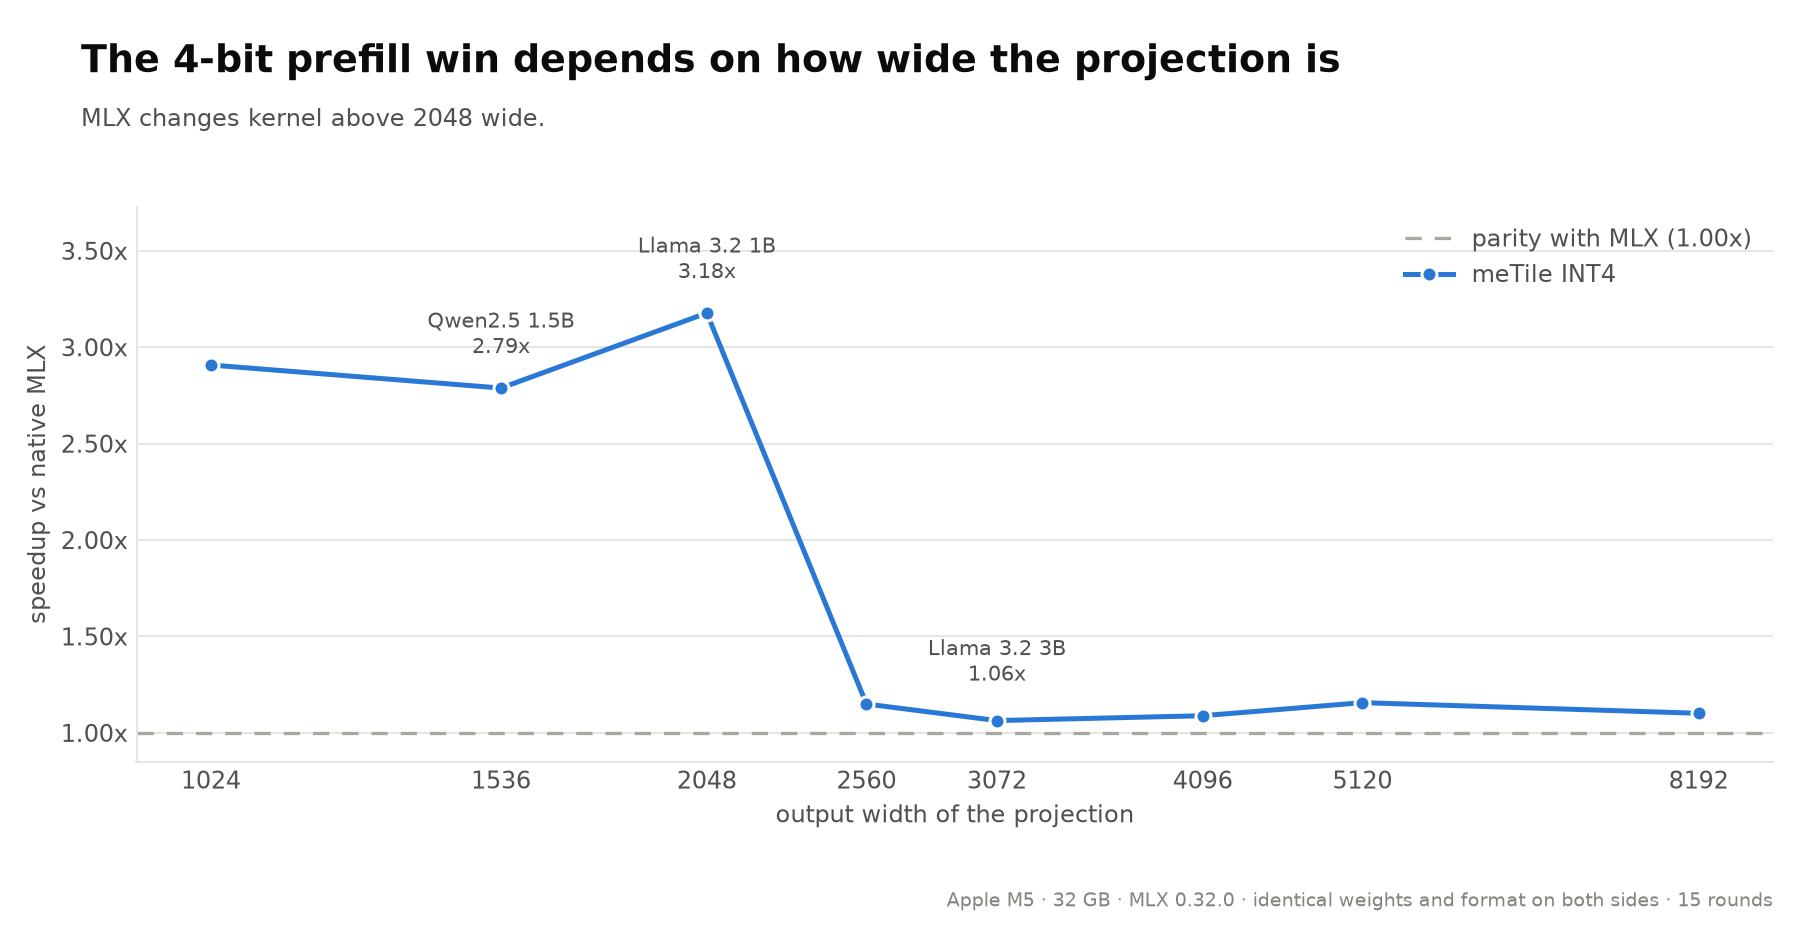
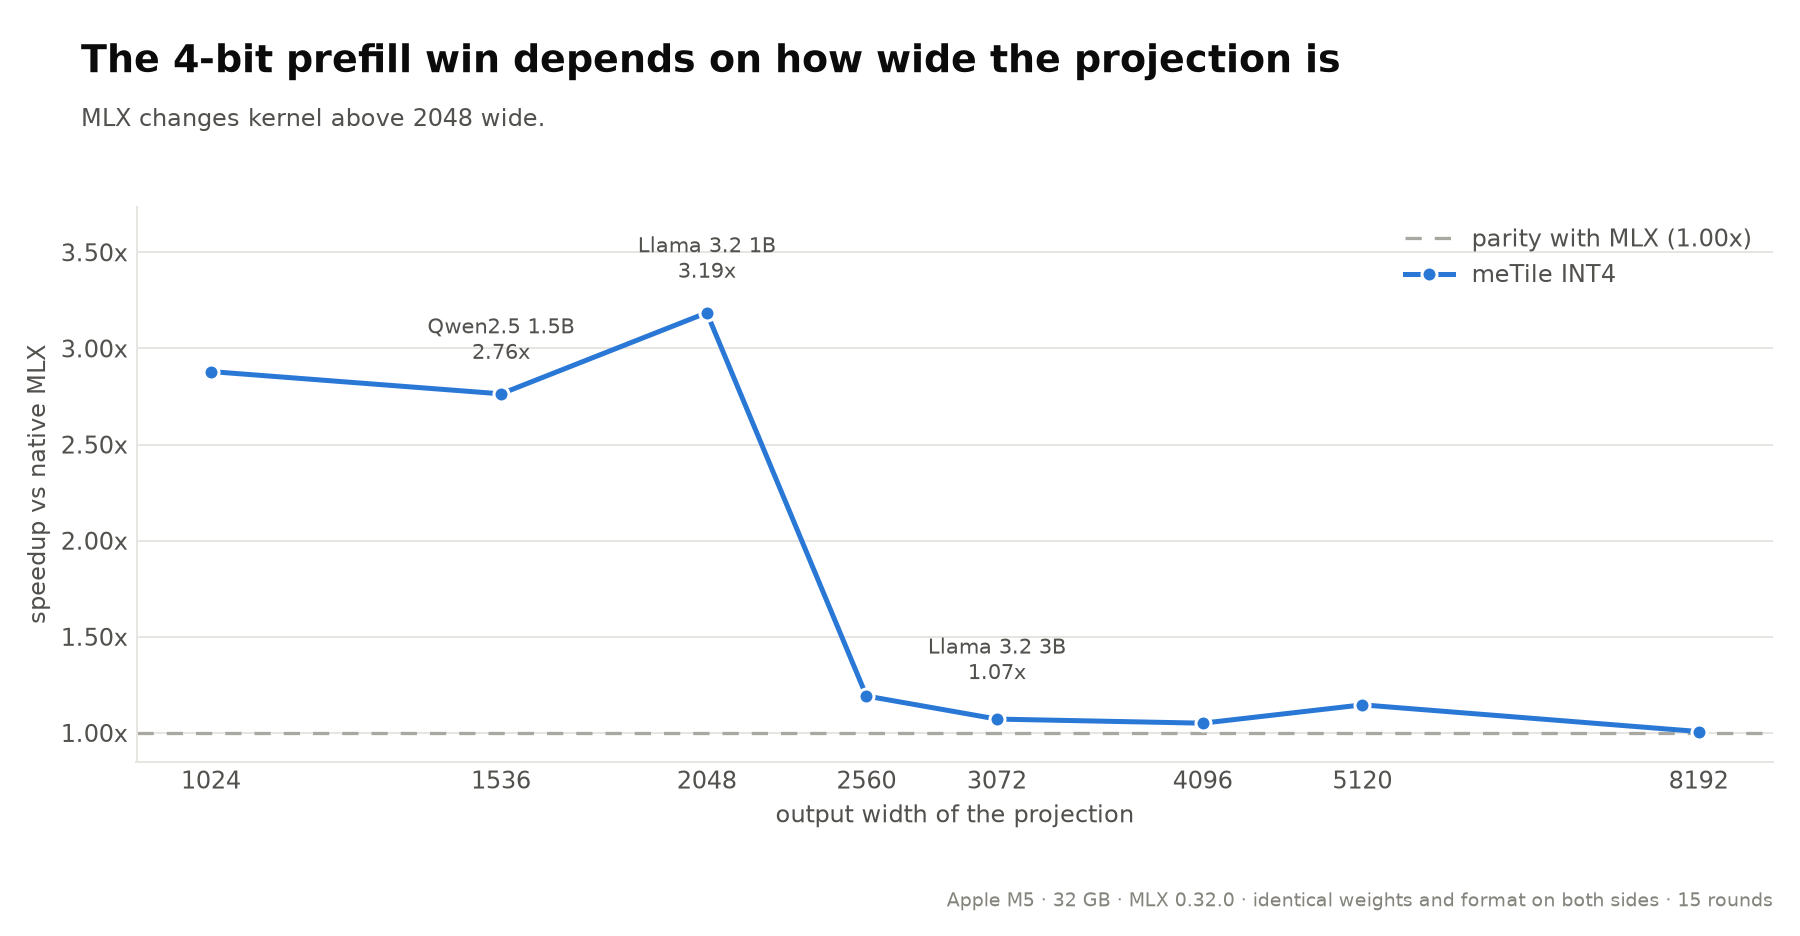
Measure meTile's quantized path instead of assuming it defers
The batch chart drew MLX INT4 and INT8 with no meTile counterpart, which reads as
missing data rather than as a result. The benchmark was recording None for those
points on the grounds that meTile has no multi-row quantized kernel, which was an
assumption rather than a measurement.

Run the quantized executor path and record it. It does track MLX, within 1.0% for
INT4 and 5.5% for INT8, so the label now says meTile defers to MLX rather than
leaving a gap.

Time the batch sweep interleaved as well. Measuring one side after the other put
INT8 at 76 GB/s against MLX's 116 at one row, which contradicted the batch-size
matrix; alternating the two removes it and the formats agree.

(cherry picked from commit 67d0ca936ceceb552c747ab73d09b2bccbeb4259)

diff --git a/benchmarks/shape_sensitivity.py b/benchmarks/shape_sensitivity.py
@@ -136,6 +136,10 @@ def _batch_sweep(arguments, mx, nn):
     from metile.backends.mlx_dense import MLXDenseWeight
     from metile.backends.mlx_dense_residual import mlx_dense_residual_qmv
     from metile.backends.mlx_dense_swiglu import mlx_dense_swiglu
+    from metile.backends.mlx_quantized import (
+        mlx_affine_mlp_executor,
+        mlx_affine_swiglu_executor,
+    )
 
     hidden, intermediate = arguments.hidden, arguments.intermediate
     mx.random.seed(0)
@@ -164,13 +168,8 @@ def _batch_sweep(arguments, mx, nn):
         mx.eval(values, residual)
         inner = max(1, min(8, 64 // rows))
 
-        native = _median(
+        native, generated = _paired(
             lambda: (nn.silu(values @ gate.T) * (values @ up.T)) @ down.T + residual,
-            mx,
-            inner,
-            arguments.rounds,
-        )
-        generated = _median(
             lambda: mlx_dense_residual_qmv(
                 mlx_dense_swiglu(values, gate_dense, up_dense, paired_weight=paired),
                 down,
@@ -209,32 +208,49 @@ def _batch_sweep(arguments, mx, nn):
                 )
 
             quantized_bytes = dense_bytes * bits // 16
-            native = _median(
+            # Measure meTile's quantized path rather than assuming what it does. Above one
+            # row it has no multi-row kernel and hands the shape back to MLX, so this line
+            # is expected to land on the native one; measuring says so instead of leaving
+            # a gap the reader has to interpret.
+            swiglu = mlx_affine_swiglu_executor(
+                activations, gq, gs, gb, uq, us, ub, group_size=64, bits=bits
+            )
+            if bits == 4:
+                execute = mlx_affine_mlp_executor(
+                    activations, gq, gs, gb, uq, us, ub, dq, ds, db, residual16,
+                    group_size=64, bits=bits,
+                )
+            else:
+                def execute(values_, residual_, _swiglu=swiglu):
+                    return quantized_matmul(_swiglu(values_), dq, ds, db) + residual_
+
+            native, generated = _paired(
                 lambda: quantized_matmul(
                     nn.silu(quantized_matmul(activations, gq, gs, gb))
                     * quantized_matmul(activations, uq, us, ub),
                     dq, ds, db,
                 )
                 + residual16,
+                lambda: execute(activations, residual16),
                 mx,
                 inner,
                 arguments.rounds,
             )
-            # meTile has no multi-row quantized kernel, so it defers to MLX above one row.
             records.append(
                 {
                     "format": f"int{bits}",
                     "rows": rows,
                     "weight_bytes": quantized_bytes,
                     "mlx_seconds": native,
-                    "metile_seconds": None,
+                    "metile_seconds": generated,
                     "mlx_bandwidth": quantized_bytes / native / 1e9,
-                    "metile_bandwidth": None,
+                    "metile_bandwidth": quantized_bytes / generated / 1e9,
                 }
             )
             print(
                 f"{'int' + str(bits):<9}{rows:>5}{native * 1e6:10.1f}"
-                f"{quantized_bytes / native / 1e9:10.1f}{'-':>13}"
+                f"{quantized_bytes / native / 1e9:10.1f}"
+                f"{quantized_bytes / generated / 1e9:13.1f}"
             )
     return records
 

diff --git a/benchmarks/render_shape_sensitivity.py b/benchmarks/render_shape_sensitivity.py
@@ -122,12 +122,28 @@ def render_batch(payload, output):
         label=f"most this machine can move ({STREAMING_CEILING:.0f} GB/s)",
     )
 
-    lines = (
-        ("bf16", "metile_bandwidth", style.DECODE, "meTile BF16"),
-        ("bf16", "mlx_bandwidth", style.PREFILL, "MLX BF16"),
-        ("int8", "mlx_bandwidth", style.ACCENT, "MLX INT8"),
-        ("int4", "mlx_bandwidth", style.FOURTH, "MLX INT4"),
-    )
+    def tracks_mlx(format_name, tolerance=0.08):
+        """True when meTile's line would sit on MLX's, because it defers to it."""
+        rows = [record for record in records if record["format"] == format_name]
+        if any(record["metile_bandwidth"] is None for record in rows):
+            return False
+        return all(
+            abs(record["metile_bandwidth"] - record["mlx_bandwidth"])
+            <= tolerance * record["mlx_bandwidth"]
+            for record in rows
+        )
+
+    # Where meTile has no kernel it hands the shape to MLX, so plotting both would draw
+    # one line on top of another. Say so in the label instead of leaving the reader to
+    # wonder why a series is missing.
+    lines = [("bf16", "metile_bandwidth", style.DECODE, "meTile BF16"),
+             ("bf16", "mlx_bandwidth", style.PREFILL, "MLX BF16")]
+    for format_name, colour in (("int8", style.ACCENT), ("int4", style.FOURTH)):
+        suffix = (
+            " (meTile defers to MLX)" if tracks_mlx(format_name) else " (MLX)"
+        )
+        lines.append((format_name, "mlx_bandwidth", colour, format_name.upper() + suffix))
+    lines = tuple(lines)
     endpoints = []
     for format_name, field, colour, label in lines:
         rows, values = series(format_name, field)
